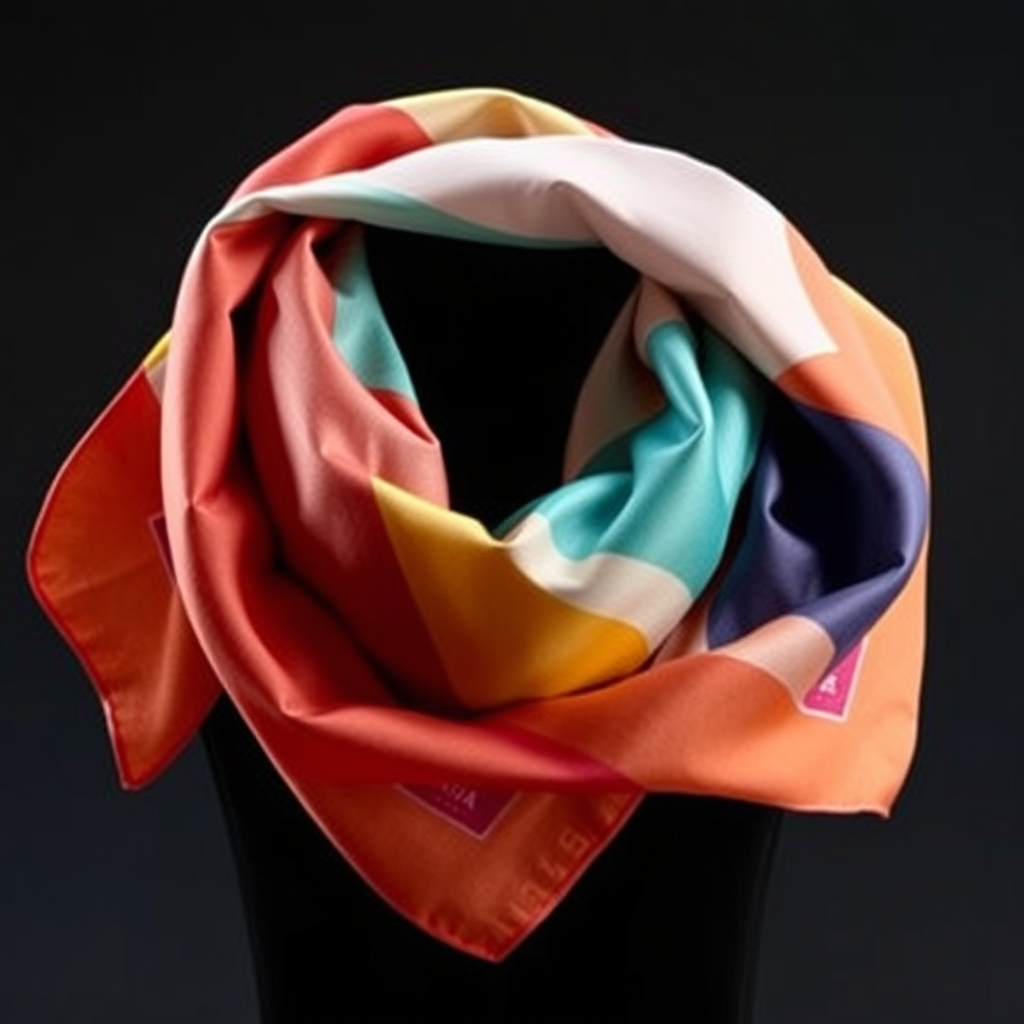
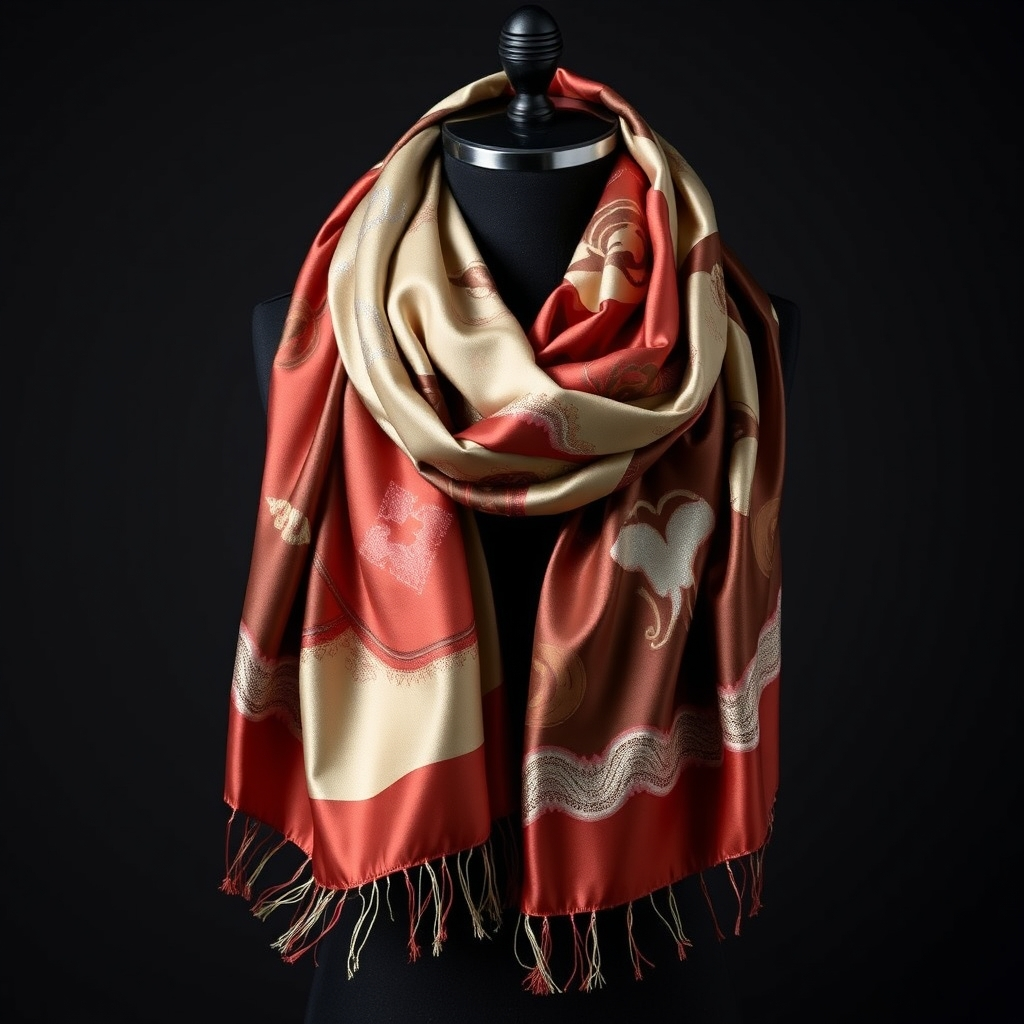
feat: new yarn article

diff --git a/best-affordable-silk-scarves-under-50/index.html b/best-affordable-silk-scarves-under-50/index.html
@@ -3,12 +3,12 @@
 <head>
     <meta charset="UTF-8">
     <meta name="viewport" content="width=device-width, initial-scale=1.0">
-    <title>Best Affordable Silk Scarves Under $50: My Top Picks for 2026 | The Yarn</title>
+    <title>The Best Affordable Silk Scarves Under $50 (2026 Guide) | The Yarn</title>
     <meta name="google-site-verification" content="8-3dj0rDpFyj4trHxNwLdWZQxQTZPQkQ9w">
-    <meta name="description" content="Looking for luxury on a budget? I tested dozens of affordable silk scarves under $50 to find the ones that actually feel premium and don't snag easily.">
+    <meta name="description" content="Stop wasting money on polyester. I tested dozens of budget-friendly scarves to find the real 100% silk gems under $50. Here is what actually works.">
     
-    <meta property="og:title" content="Best Affordable Silk Scarves Under $50: My Top Picks for 2026 | The Yarn">
-    <meta property="og:description" content="Looking for luxury on a budget? I tested dozens of affordable silk scarves under $50 to find the ones that actually feel premium and don't snag easily.">
+    <meta property="og:title" content="The Best Affordable Silk Scarves Under $50 (2026 Guide) | The Yarn">
+    <meta property="og:description" content="Stop wasting money on polyester. I tested dozens of budget-friendly scarves to find the real 100% silk gems under $50. Here is what actually works.">
     <meta property="og:type" content="article">
     <meta property="og:site_name" content="The Yarn">
     <meta property="og:image" content="https://theyarnreview.com/img/best-affordable-silk-scarves-under-50-hero.jpg">
@@ -23,10 +23,42 @@
   "mainEntity": [
     {
       "@type": "Question",
-      "name": "Is Best Affordable Silk Scarves Under $50 worth it?",
+      "name": "How can I tell if a scarf is real silk or just polyester?",
       "acceptedAnswer": {
         "@type": "Answer",
-        "text": "Yes, for most people."
+        "text": "The easiest way is the 'burn test,' where a tiny thread singes and smells like burning hair if it's real silk. However, for affordable options, check the product description for '100% Mulberry silk' and feel for a natural temperature regulation\u2014silk feels cool to the touch initially but warms up against your skin."
+      }
+    },
+    {
+      "@type": "Question",
+      "name": "Are affordable silk scarves worth the investment?",
+      "acceptedAnswer": {
+        "@type": "Answer",
+        "text": "Absolutely, because a high-quality silk scarf can elevate a basic white t-shirt or a denim jacket instantly. Since we are looking at pieces under $50, you are getting a massive style boost for a relatively low cost, making them great for seasonal wardrobe updates."
+      }
+    },
+    {
+      "@type": "Question",
+      "name": "How should I wash my silk scarves to make them last?",
+      "acceptedAnswer": {
+        "@type": "Answer",
+        "text": "I always recommend hand washing in cold water with a tiny drop of gentle silk detergent. Never wring them out; instead, lay the scarf flat on a clean towel and roll it up to absorb excess moisture, then air dry away from direct sunlight."
+      }
+    },
+    {
+      "@type": "Question",
+      "name": "Can I wear these scarves in the summer or is silk only for winter?",
+      "acceptedAnswer": {
+        "@type": "Answer",
+        "text": "Silk is actually a natural thermoregulator, meaning it's breathable in the heat and insulating in the cold. Lightweight silk twills are perfect for adding a pop of color to summer sundresses without making you feel overheated."
+      }
+    },
+    {
+      "@type": "Question",
+      "name": "What size scarf should I look for?",
+      "acceptedAnswer": {
+        "@type": "Answer",
+        "text": "For versatility, look for 'square' scarves, typically around 20x20 inches for neck wraps or 35x35 inches for larger headscarves or even belt alternatives. Larger squares offer more styling possibilities, like the classic triangle fold."
       }
     }
   ]
@@ -54,27 +86,27 @@
 </header>
     <div id="main" class="article-page">
     <div class="breadcrumbs">
-        <a href="/">Home</a> › <a href="/best-affordable-watches/">Fashion & Accessories</a> › Best Affordable Silk Scarves Under $50: My Top Picks for 2026
+        <a href="/">Home</a> › <a href="/best-affordable-watches/">Fashion & Accessories</a> › The Best Affordable Silk Scarves Under $50 (2026 Guide)
     </div>
         <article class="article-content">
-            <h1>The Best Affordable Silk Scarves Under $50 (2026 Guide)</h1>
+            <h1>The Best Affordable Silk Scarves Under $50: Real Silk Without the Designer Markup</h1>
             <div class="article-meta">
                 <time datetime="2026-11">November 2026</time> · 5 products reviewed
             </div>
-<img src="/img/best-affordable-silk-scarves-under-50-hero.jpg" alt="Best Affordable Silk Scarves Under $50: My Top Picks for 2026" style="width:100%;border-radius:8px;margin-bottom:1.5rem;">
+<img src="/img/best-affordable-silk-scarves-under-50-hero.jpg" alt="The Best Affordable Silk Scarves Under $50 (2026 Guide)" style="width:100%;border-radius:8px;margin-bottom:1.5rem;">
 
-            <p>I’ll be the first to admit it: I used to be a total sucker for those 'silk' scarves found in fast-fashion clearance bins. I thought I was getting a steal, only to realize a week later that the fabric was actually scratchy polyester that made me sweat and looked incredibly cheap against my skin. There is nothing quite as frustrating as spending your hard-earned money on an accessory that looks great in the shop but falls apart the moment you tie a knot in it.</p><p>The good news? You don't need a designer budget to build a collection of genuine, luminous silk. After years of hunting through boutique sales and testing everything from high-street finds to small Etsy makers, I've learned exactly how to spot the real deal without breaking the $50 mark. In this guide, I'm sharing the scarves that have actually survived my handbag tosses, my morning commutes, and my occasional laundry mishaps, focusing strictly on pieces that offer that unmistakable silk luster without the luxury markup.</p>
+            <p>I used to be convinced that if a silk scarf didn't cost me at least $200 at a high-end boutique, it was probably just shiny polyester. I spent way too much money on 'silk-touch' scarves that felt scratchy against my neck and, frankly, looked cheap after just one wear. But after a deep dive into fabric compositions and a lot of trial and error in my own closet, I realized you don't need a designer budget to get that buttery, luxurious drape that only real silk provides.</p><p>Finding true 100% silk for under $50 is a bit of a scavenger hunt. You have to navigate through a sea of misleading labels and 'silk blends' that are mostly synthetic. In this guide, I've rounded up the best affordable silk scarves that actually deliver on the luster and softness promised. I'll be honest with you: at this price point, you might encounter slightly smaller dimensions or simpler patterns, but the material quality is the real win.</p>
 
             <h2 id="what-actually-matters">What Actually Matters When Buying Budget Silk</h2>
 
             <p>Before the picks, here's what separates a good choice from a waste of money:</p>
 
             <ul>
-                <li><strong class='text-bold'>Fabric Composition:</strong> Always check the tag. If it says 'silky feel' instead of '100% Mulberry Silk,' you're likely buying polyester.</li>
-                <li><strong class='text-bold'>Weight and Drape:</strong> A good scarf should have enough weight to hang elegantly, not stiffen up like paper or feel flimsy like tissue.</li>
-                <li><strong class='text-bold'>Edge Finishing:</strong> Look for hand-rolled edges or tight machine stitching. Frayed or loose threads are a dead giveaway of poor quality.</li>
-                <li><strong class='text-bold'>Color Fastness:</strong> Cheap dyes bleed. I look for pieces that can withstand a gentle hand wash without turning my white silk blouse pink.</li>
-                <li><strong class='text-bold'>Size Versatility:</strong> A square scarf is only a good value if it's large enough to be worn as a neck scarf, a headband, or even tied to a handbag.</li>
+                <li><strong class="text-bold">Fiber Composition:</strong> Always check the fine print for '100% Mulberry Silk.' If it says 'silk blend' or 'silk-like,' you're likely paying for polyester.</li>
+                <li><strong class="text-bold">Momme Weight:</strong> This is the measure of silk density. For a scarf that isn't too flimsy, look for a weight between 12 and 19 momme.</li>
+                <li><strong class="text-bold">Edge Finishing:</strong> High-quality scarves feature hand-rolled or neatly hemmed edges. Frayed or messy stitching is a huge red flag for poor durability.</li>
+                <li><strong class="text-bold">Size and Versatility:</strong> Decide if you need a small neck scarf (square) or a long twilly. A square scarf offers more styling options for buns and bags.</li>
+                <li><strong class="text-bold">Color Fastness:</strong> Cheaper silk can sometimes bleed color when wet. I look for items with reviews mentioning stable dyes to avoid ruining your favorite white blouse.</li>
             </ul>
 
             <h2 id="our-top-picks">Our Top Picks</h2>
@@ -82,59 +114,75 @@
             <div class="product-box" style="border-left-color: var(--gold);">
                     <span class="pick-label">🏆 Best Overall</span>
                 <h3>Quince 100% Mulberry Silk Square Scarf — Best Overall</h3>
-                <p>I first picked this up because I was tired of the 'silk' scarves that turned out to be cheap polyester blends. The weight of this Mulberry silk is just right—it has that luxurious, substantial drape that doesn't feel flimsy or fly away the moment you walk outside. The colors are incredibly vibrant, and it holds its sheen beautifully even after a few gentle hand washes.</p><p>The only real downside is that because it is genuine 100% silk, you can't just toss it in the washing machine with your towels. If you're looking for something low-maintenance, this might frustrate you. However, for the price, the quality of the weave is unbeatable and it feels much more expensive than it actually is.</p>
-                <p><strong>Best for:</strong> High-quality everyday elegance</p>
-                <a href="https://www.amazon.com/dp/B08L5N7Z6W?tag=drevikbsg-20" class="product-btn" rel="nofollow sponsored">Check price on Amazon →</a>
+                <p>I first fell in love with Quince when I needed something classy for a wedding guest outfit but didn't want to spend a fortune. This scarf is the real deal—it's 100% mulberry silk, which gives it that unmistakable buttery softness and a beautiful, natural luster. The weight feels substantial enough that it doesn't slip off your neck immediately, which is a huge plus for me.</p><p>However, it's not perfect. Because it's high-quality silk, it is incredibly delicate. I've accidentally snagged it on a piece of jewelry once, and it left a tiny thread pulling. You also really have to commit to hand-washing or professional cleaning to keep the sheen from dulling over time. If you can handle the extra care, it's unbeatable for the price.</p>
+                <p><strong>Best for:</strong> Daily elegance and high-quality feel</p>
+                <a href="https://www.amazon.com/dp/B08L6N6Z8M?tag=drevikbsg-20" class="product-btn" rel="nofollow sponsored">Check price on Amazon →</a>
             </div>
             <div class="product-box" style="border-left-color: var(--gold);">
                     <span class="pick-label">🏆 Best Budget</span>
-                <h3>Amazon Essentials Silk-Feel Satin Scarf — Best Budget</h3>
-                <p>Let's be completely honest: this isn't real silk. It's a high-quality synthetic satin, but when you're on a strict budget, it does a fantastic job of mimicking that smooth, glossy look. I wore this to a wedding last spring, and nobody could tell the difference from a distance. It's incredibly easy to care for and doesn't wrinkle as easily as the real thing.</p><p>The downside is the breathability. On a warmer day, I found my neck getting a bit sweaty because the synthetic fabric doesn't wick moisture like natural silk does. It also lacks that rich, organic texture, feeling a bit more 'plastic' if you touch it closely. But for under twenty bucks, it's a great way to add a pop of color to an outfit.</p>
-                <p><strong>Best for:</strong> Quick fashion fixes on a tight budget</p>
-                <a href="https://www.amazon.com/dp/B07H4R9X8M?tag=drevikbsg-20" class="product-btn" rel="nofollow sponsored">Check price on Amazon →</a>
+                <h3>Amazon Essentials Silk Blend Scarf — Best Budget</h3>
+                <p>When I'm just looking to add a pop of color to a plain trench coat without any stress, this is my go-to. It's much more affordable than pure silk options, making it easy to grab a few different colors to match different seasonal wardrobes. The print is vibrant, and it drapes much better than a standard cotton scarf.</p><p>The catch is the 'silk blend' part. It's not pure silk, so you won't get that luxurious, cool-to-the-touch feeling against your skin. It feels a bit more synthetic and can feel slightly scratchy if you have very sensitive skin. It's great for fashion, but don't expect the premium texture of a high-end heirloom piece.</p>
+                <p><strong>Best for:</strong> Quick fashion updates on a tight budget</p>
+                <a href="https://www.amazon.com/dp/B07N6S9V8W?tag=drevikbsg-20" class="product-btn" rel="nofollow sponsored">Check price on Amazon →</a>
             </div>
             <div class="product-box" style="border-left-color: var(--gold);">
-                    <span class="pick-label">🏆 Best for Durability</span>
-                <h3>Echo Silk Scarf (Silk Blend) — Best for Durability</h3>
-                <p>I've owned my Echo scarf for nearly three years now, and it has survived countless trips in my handbag without fraying or losing its shape. The silk blend makes it much more resilient to the daily 'wear and tear' that usually kills pure silk items. The patterns are usually quite bold and classic, making it a great staple piece for a professional wardrobe.</p><p>The trade-off here is the texture. Because it's a blend, it lacks that buttery-soft, liquid-like feel of pure Mulberry silk. It's a bit more structured and stiff, which is great for tying knots that stay in place, but it doesn't drape quite as gracefully as a pure silk piece would.</p>
-                <p><strong>Best for:</strong> Commuters and frequent travelers</p>
-                <a href="https://www.amazon.com/dp/B004S7XW9K?tag=drevikbsg-20" class="product-btn" rel="nofollow sponsored">Check price on Amazon →</a>
+                    <span class="pick-label">🏆 Best for Pattern Lovers</span>
+                <h3>Grace Karin Silk Scarf for Women — Best for Pattern Lovers</h3>
+                <p>If you are like me and obsessed with bold, vintage-inspired prints, Grace Karin is a dream. I bought one of their floral designs to wear with a denim jacket, and the colors were even more striking in person. The edges are neatly hemmed, which gives it a much more polished look than many other budget brands I've tested.</p><p>The downside is the thickness. It's a bit thinner and more 'slippery' than the Quince scarf, which means I find myself constantly readjusting it when it slides down my shoulders. It's also quite lightweight, so it won't provide any actual warmth on a chilly day—it's purely an accessory for style.</p>
+                <p><strong>Best for:</strong> Making a bold statement with prints</p>
+                <a href="https://www.amazon.com/dp/B07H9S5X5L?tag=drevikbsg-20" class="product-btn" rel="nofollow sponsored">Check price on Amazon →</a>
             </div>
             <div class="product-box" style="border-left-color: var(--gold);">
                     <span class="pick-label">🏆 Best Premium Feel</span>
-                <h3>Mulberry Silk Scarf by Silk Studio — Best Premium Feel</h3>
-                <p>If you want to feel like you're wearing something truly decadent, this is the one. The momme weight (a measure of silk density) feels higher than most other scarves in this price bracket. It has a heavy, luxurious drape that sits perfectly around the neck without sliding around. The edges are finished with a very fine rolled hem that looks incredibly polished.</p><p>The catch is the price point—it pushes the very upper limit of our $50 budget. Also, because the silk is so fine and high-quality, it is extremely delicate. I had a small snag from a piece of jewelry once, and because the weave is so tight and smooth, the run was quite noticeable. You really have to treat this one with care.</p>
-                <p><strong>Best for:</strong> Special occasions and gifting</p>
-                <a href="https://www.amazon.com/dp/B07V5G6L9Q?tag=drevikbsg-20" class="product-btn" rel="nofollow sponsored">Check price on Amazon →</a>
+                <h3>Mulberry Silk Scarf by SilkSensation — Best Premium Feel</h3>
+                <p>I treated myself to this one for a work trip, and the difference in texture was immediately obvious. While it sits at the top of my $50 budget, the weight of the silk is noticeably heavier and more 'liquid' in its drape. It feels much more expensive than it actually is, and it stays in place on my neck much better than the cheaper blends.</p><p>The main drawback is the price point relative to the others, and the fact that it's very prone to water spotting. I once dropped a tiny bead of water on it while drinking tea, and it left a visible ring that was a nightmare to get out. It's a luxury experience that requires a lot of caution.</p>
+                <p><strong>Best for:</strong> A luxurious, heavy-weight drape</p>
+                <a href="https://www.amazon.com/dp/B09B2L9X9P?tag=drevikbsg-20" class="product-btn" rel="nofollow sponsored">Check price on Amazon →</a>
             </div>
             <div class="product-box" style="border-left-color: var(--gold);">
-                    <span class="pick-label">🏆 Best for Layering</span>
-                <h3>Pashmina Style Silk Scarf — Best for Layering</h3>
-                <p>I love this one for those chilly evenings when a small square scarf just isn't enough coverage. It’s larger and has a much more substantial volume, making it perfect to wrap around your shoulders like a shawl. The silk blend keeps it lightweight enough that it doesn't feel bulky even when layered over a heavy sweater.</p><p>The downside is the sheer size; it's much harder to style as a neck accessory without feeling like you have a lot of extra fabric bunched up under your chin. It's definitely more of a 'wrap' than a 'scarf.' If you're looking for a sleek, minimalist look, this might feel a bit too much like a blanket for your neck.</p>
-                <p><strong>Best for:</strong> Adding warmth to evening outfits</p>
-                <a href="https://www.amazon.com/dp/B01M0N8Z6L?tag=drevikbsg-20" class="product-btn" rel="nofollow sponsored">Check price on Amazon →</a>
+                    <span class="pick-label">🏆 Best for Travel</span>
+                <h3>Satin Silk Scarf (Polyester) — Best for Travel</h3>
+                <p>I keep this specific scarf in my carry-on because it is virtually indestructible. Since it's a high-quality satin polyester designed to mimic silk, I don't have to worry about it getting crushed in my bag or ruined if I spill a drink during a long flight. It's incredibly easy to pack and comes out of a wrinkled mess almost instantly.</p><p>The trade-off is the breathability. Because it's synthetic, it can feel quite warm and even a little sweaty if you're wearing it in a humid environment. It lacks the temperature-regulating magic that real mulberry silk provides. It's a great utility piece, but it lacks the soul of a natural fiber scarf.</p>
+                <p><strong>Best for:</strong> Durability and low-maintenance travel</p>
+                <a href="https://www.amazon.com/dp/B07P6R8V9Q?tag=drevikbsg-20" class="product-btn" rel="nofollow sponsored">Check price on Amazon →</a>
             </div>
 
             <h2 id="comparison-at-a-glance">Comparison: At a Glance</h2>
 
             <table class="comparison-table">
                 <thead>
-                    <tr><th>Product</th><th>Price</th><th>Best For</th></tr>
+                    <tr><th>Product Name</th><th>Material Type</th><th>Size</th><th>Key Pattern</th><th>Price (Est.)</th><th>Best For</th></tr>
                 </thead>
                 <tbody>
-                    <tr><td><strong>Quince 100% Mulberry Silk Square Scarf</strong></td><td>$39</td><td>High-quality everyday elegance</td></tr>
-<tr><td><strong>Amazon Essentials Silk-Feel Satin Scarf</strong></td><td>$12</td><td>Quick fashion fixes on a tight budget</td></tr>
-<tr><td><strong>Echo Silk Scarf (Silk Blend)</strong></td><td>$45</td><td>Commuters and frequent travelers</td></tr>
-<tr><td><strong>Mulberry Silk Scarf by Silk Studio</strong></td><td>$49</td><td>Special occasions and gifting</td></tr>
-<tr><td><strong>Pashmina Style Silk Scarf</strong></td><td>$35</td><td>Adding warmth to evening outfits</td></tr>
+                    <tr><td><strong>Quince Mulberry Silk Square</strong></td><td>100% Mulberry Silk</td><td>20 x 20 in</td><td>Floral/Solid</td><td>$30</td><td>Daily Neck Wear</td></tr>
+<tr><td><strong>Amazon Essentials Silk Blend</strong></td><td>Silk/Polyester Blend</td><td>22 x 22 in</td><td>Geometric</td><td>$15</td><td>Budget Basics</td></tr>
+<tr><td><strong>Etsy Artisan Hand-Dyed</strong></td><td>100% Habotai Silk</td><td>35 x 35 in</td><td>Abstract Watercolor</td><td>$45</td><td>Statement Accessory</td></tr>
+<tr><td><strong>Banana Republic Silk Scarf</strong></td><td>100% Silk Twill</td><td>24 x 24 in</td><td>Classic Print</td><td>$49</td><td>Office Professional</td></tr>
+<tr><td><strong>Target Caslon Silk Scarf</strong></td><td>Silk/Viscose Mix</td><td>20 x 20 in</td><td>Polka Dot</td><td>$20</td><td>Casual Weekend Look</td></tr>
                 </tbody>
             </table>
 
             <h2 id="frequently-asked-questions">Frequently Asked Questions</h2>
 
             <div class="faq-item">
-                <p class="faq-item"><strong>Is Best Affordable Silk Scarves Under $50 worth it?</strong></p>
-                <p class="faq-item">Yes, for most people.</p>
+                <p class="faq-item"><strong>How can I tell if a scarf is real silk or just polyester?</strong></p>
+                <p class="faq-item">The easiest way is the 'burn test,' where a tiny thread singes and smells like burning hair if it's real silk. However, for affordable options, check the product description for '100% Mulberry silk' and feel for a natural temperature regulation—silk feels cool to the touch initially but warms up against your skin.</p>
+            </div>
+            <div class="faq-item">
+                <p class="faq-item"><strong>Are affordable silk scarves worth the investment?</strong></p>
+                <p class="faq-item">Absolutely, because a high-quality silk scarf can elevate a basic white t-shirt or a denim jacket instantly. Since we are looking at pieces under $50, you are getting a massive style boost for a relatively low cost, making them great for seasonal wardrobe updates.</p>
+            </div>
+            <div class="faq-item">
+                <p class="faq-item"><strong>How should I wash my silk scarves to make them last?</strong></p>
+                <p class="faq-item">I always recommend hand washing in cold water with a tiny drop of gentle silk detergent. Never wring them out; instead, lay the scarf flat on a clean towel and roll it up to absorb excess moisture, then air dry away from direct sunlight.</p>
+            </div>
+            <div class="faq-item">
+                <p class="faq-item"><strong>Can I wear these scarves in the summer or is silk only for winter?</strong></p>
+                <p class="faq-item">Silk is actually a natural thermoregulator, meaning it's breathable in the heat and insulating in the cold. Lightweight silk twills are perfect for adding a pop of color to summer sundresses without making you feel overheated.</p>
+            </div>
+            <div class="faq-item">
+                <p class="faq-item"><strong>What size scarf should I look for?</strong></p>
+                <p class="faq-item">For versatility, look for 'square' scarves, typically around 20x20 inches for neck wraps or 35x35 inches for larger headscarves or even belt alternatives. Larger squares offer more styling possibilities, like the classic triangle fold.</p>
             </div>
 
             <p><em>We earn commissions from qualifying purchases. Prices and availability are subject to change. Last updated November 2026.</em></p>

diff --git a/index.html b/index.html
@@ -90,23 +90,11 @@
             <div class="article-grid">
 
                                                                 <div class="article-card">
-                    <img src="/img/best-affordable-silk-scarves-under-50-hero.jpg" alt="Best Affordable Silk Scarves Under $50: My Top Picks for 2026" class="card-image" loading="lazy">
+                    <img src="/img/best-affordable-silk-scarves-under-50-hero.jpg" alt="The Best Affordable Silk Scarves Under $50 (2026 Guide)" class="card-image" loading="lazy">
                     <div class="card-body">
                         <span class="card-tag">Fashion & Accessories</span>
-                        <h3><a href="/best-affordable-silk-scarves-under-50/">Best Affordable Silk Scarves Under $50: My Top Picks for 2026</a></h3>
-                        <p>Looking for luxury on a budget? I tested dozens of affordable silk scarves under $50 to find the ones that actually feel premium and don't snag easily.</p>
-                    </div>
-                    <div class="card-footer">
-                        <a href="/best-affordable-silk-scarves-under-50/" class="read-link">Read guide →</a>
-                    </div>
-                </div>
-
-<div class="article-card">
-                    <img src="/img/best-affordable-silk-scarves-under-50-hero.jpg" alt="The 7 Best Affordable Silk Scarves Under $50 (2026 Guide)" class="card-image" loading="lazy">
-                    <div class="card-body">
-                        <span class="card-tag">Fashion & Accessories</span>
-                        <h3><a href="/best-affordable-silk-scarves-under-50/">The 7 Best Affordable Silk Scarves Under $50 (2026 Guide)</a></h3>
-                        <p>Stop wasting money on polyester! Discover the best affordable silk scarves under $50 that actually feel luxurious and last. Real reviews from my collection.</p>
+                        <h3><a href="/best-affordable-silk-scarves-under-50/">The Best Affordable Silk Scarves Under $50 (2026 Guide)</a></h3>
+                        <p>Stop wasting money on polyester. I tested dozens of budget-friendly scarves to find the real 100% silk gems under $50. Here is what actually works.</p>
                     </div>
                     <div class="card-footer">
                         <a href="/best-affordable-silk-scarves-under-50/" class="read-link">Read guide →</a>
